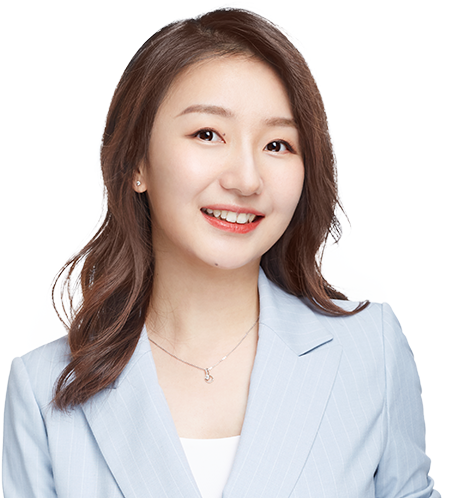
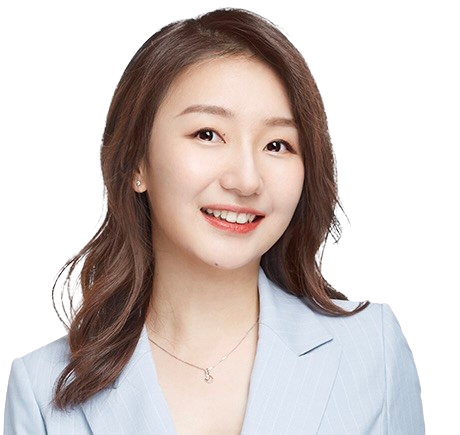
Add files via upload

diff --git a/daily_schedule.html b/daily_schedule.html
@@ -220,9 +220,9 @@
         // 卡片内容
         card.innerHTML = '<div class="p-4">' +
           '<div class="flex items-center mb-4">' +
-          '<div class="w-32 h-32">' +
-          '<img src="' + imgSrc + '" alt="' + course.teacher + '" class="w-full h-auto object-contain">' +
-          '</div>' +
+          '<div class="w-32 h-32 overflow-hidden">' +
+'<img src="' + imgSrc + '" alt="' + course.teacher + '" class="w-full h-full object-cover">' +
+'</div>' +
           '<div class="ml-4 flex-1">' +
           '<div>' +
           '<div class="font-bold text-primary text-2xl">' + teacherTitle + '</div>' +
